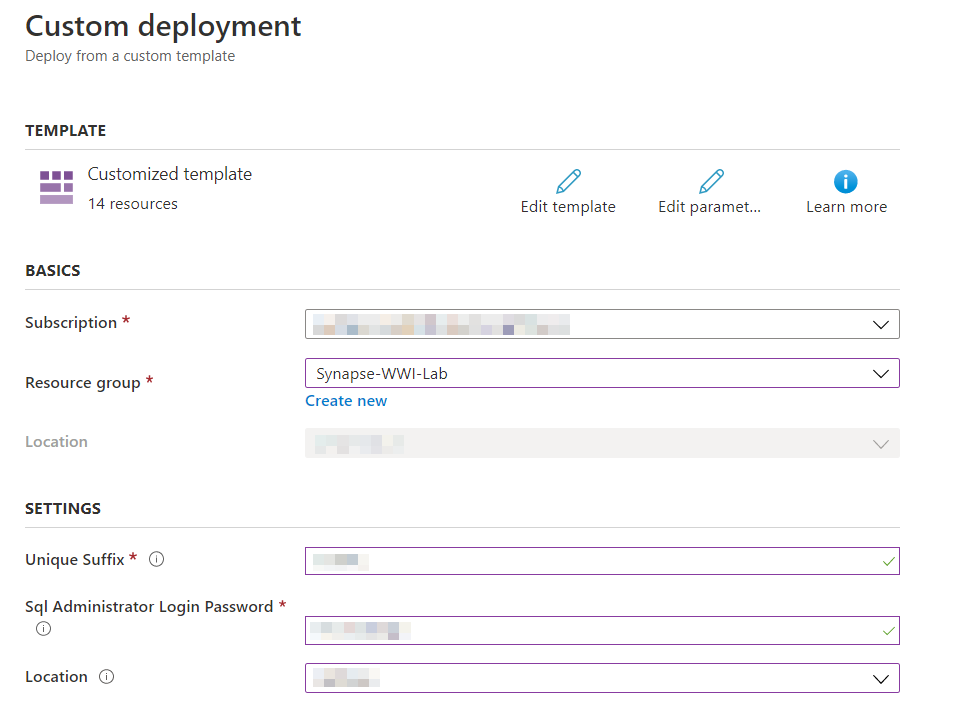
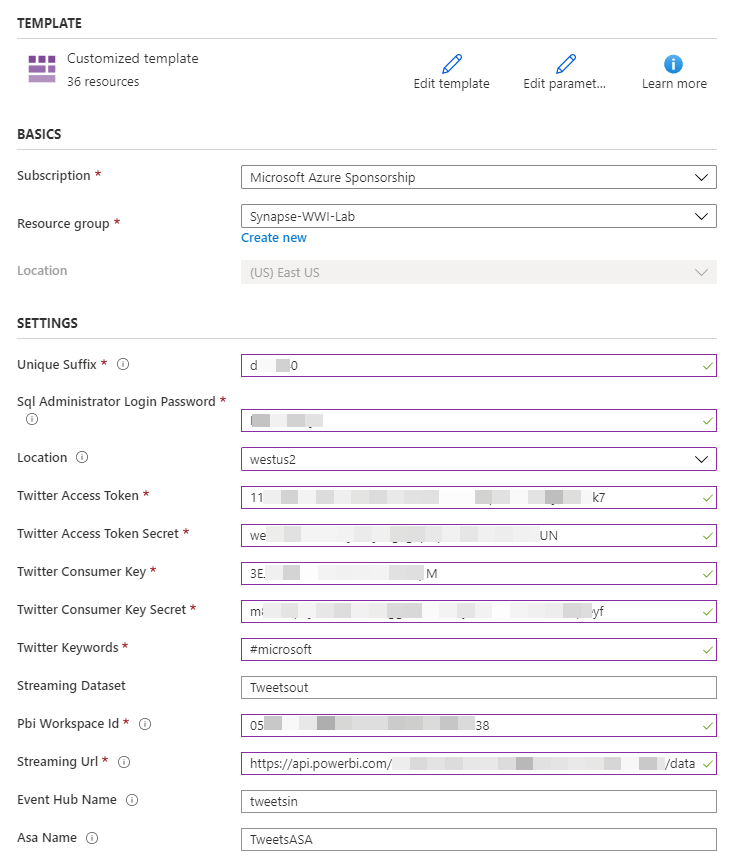
Setup Guide Additions for match the new ARM Template and automation changes.

diff --git a/CDP-Retail/Before-Starting.md b/CDP-Retail/Before-Starting.md
@@ -8,22 +8,71 @@
 - [Azure Synapse Analytics WWI setup guide](#azure-synapse-analytics-wwi-setup-guide)
   - [Requirements](#requirements)
   - [Before Starting](#before-starting)
-    - [Task 1: Create a resource group in Azure](#task-1-create-a-resource-group-in-azure)
-    - [Task 2: Create Azure Synapse Analytics workspace](#task-2-create-azure-synapse-analytics-workspace)
-    - [Task 3: Download artifacts](#task-3-download-artifacts)
-    - [Task 4: Establish a user context](#task-4-establish-a-user-context)
-    - [Task 5: Run environment setup PowerShell script](#task-5-run-environment-setup-powershell-script)
+    - [Task 1: Create a Power BI Streaming Dataset](#task-1-create-a-power-bi-streaming-dataset)
+    - [Task 2: Create a resource group in Azure](#task-2-create-a-resource-group-in-azure)
+    - [Task 3: Create Azure Synapse Analytics workspace](#task-3-create-azure-synapse-analytics-workspace)
+    - [Task 4: Download artifacts](#task-4-download-artifacts)
+    - [Task 5: Establish a user context](#task-5-establish-a-user-context)
+    - [Task 6: Run environment setup PowerShell script](#task-6-run-environment-setup-powershell-script)
 
 <!-- /TOC -->
 
 ## Requirements
 
 1. An Azure Account with the ability to create an Azure Synapse Workspace
-2. A PowerBI Pro or Premium account to host Power BI reports.
+2. Make sure the following resource providers are registered for your Azure Subscription.  
+* Microsoft.Sql
+* Microsoft.Synapse
+* Microsoft.StreamAnalytics
+* Microsoft.EventHub  
+3. A Power BI Pro or Premium account to host Power BI reports, dashboards, and configuration of streaming datasets.
+4. A Twitter developer account (Optional for Twitter Real-Time Power BI Report)
 
 ## Before starting
 
-### Task 1: Create a resource group in Azure
+### Task 1: Create a Power BI Streaming Dataset
+
+1. Sign in into the [Power BI Portal](https://powerbi.microsoft.com/en-us/) using your Azure credentials.
+
+2. Go to your workspace and select **Create** 
+
+ ![Create menu is open and the streaming dataset option is highlighted.](media/powerbi-create-streaming-dataset.png)
+
+3. Select **API** and select **Next** to continue. 
+
+ ![New streaming dataset options are listed. API option is selected and the Next button is highligted.](media/powerbi-streamingdataset-api.png)
+ 
+4. Enter a **dataset name** for your dataset and enter the field names and types listed below:
+
+| Field Name       | Type     |
+|------------------|----------|
+| Category         | Text     |
+| CustomerSegment  | Text     |
+| DeptID           | Number   |
+| DeptName         | Text     |
+| EntryTime        | DateTime |
+| ItemName         | Text     |
+| Price            | Number   |
+| Qty              | Number   |
+| Sentiment        | Text     |
+| StoreID          | Number   |
+| StoreName        | Text     |
+| TransactionID    | Number   |
+| VisitorId        | Number   |
+| VisitTime        | Number   |
+| VisitType        | Text     |
+
+ ![Streaming dataset schema configuration window is shown. Dataset name and sample configuration is highlighted.](media/powerbi-streamingdataset-schema.png)
+ 
+5. Make sure **Historic data analysis** is enabled. Select **Create** to proceed.
+
+ ![Dataset schema is shown. Historic data analysis option is enabled. The Create button is highlighted.](media/powerbi-streamingdataset-historic.png)
+ 
+6. Take note of the given **Push URL** to be used during the following setup tasks. Select **Done** to close the window.
+
+ ![Dataset creation message is shown. The Push URL is highligted.](media/powerbi-streamingdataset-endpoint.png)
+
+### Task 2: Create a resource group in Azure
 
 1. Log into the [Azure Portal](https://portal.azure.com) using your Azure credentials.
 
@@ -43,23 +92,39 @@
 
 6. Select the **Create** button once validation has passed.
 
-### Task 2: Create Azure Synapse Analytics workspace
+### Task 3: Create Azure Synapse Analytics workspace
 
 1. Deploy the workspace through the following Azure ARM template (press the button below):
 
     <a href="https://portal.azure.com/#create/Microsoft.Template/uri/https%3A%2F%2Fraw.githubusercontent.com%2Fmicrosoft%2FAzure-Analytics-and-AI-Engagement%2Fretail%2FCDP-Retail%2Fartifacts%2Fenvironment-setup%2Fautomation%2F00-asa-workspace-core.json" target="_blank"><img src="http://azuredeploy.net/deploybutton.png" /></a>
 
-2. On the **Custom deployment** form, select your desired subscription and select **Synapse-WWI-Lab** for the **Resource group**. Also provide a **Unique Suffix**. Finally, provide a strong **SQL Administrator Login Password**. Remember this password value, you'll be needing it!
+2. On the **Custom deployment** form fill in the fields described below.
 
-    ![The Custom deployment form is displayed with example data populated.](media/bhol_customdeploymentform.png)
+* **Subscription**: Select your desired subscription for the deployment.
+* **Resouce group**: Select the **Synapse-WWI-Lab** resource group you previously created.
+* **Unique Suffix**: This unique suffix will be used naming resources that will created as part of your deployment.
+* **SQL Administrator Login Password**: Provide a strong password for the SQLPool that will created as part of your deployment.
+* **Location**: The datacenter where your Azure Synapse environment will be created.
+* **Twitter Access Token**: The access token from Twitter.
+* **Twitter Access Token Secret**: The access token secret from Twitter.
+* **Twitter Consumer Key**: The consumer key from Twitter.
+* **Twitter Consumer Key Secret**: The consumer key secret from Twitter.
+* **Twitter Keywords**: Twitter keywords that will be used to fetch twitter real-time data as part of the Power BI Real-Time Report for Twitter.
+* **Streaming Dataset**: The name of your Twitter PowerBI Dataset that will be automatically created by Azure Stream Analytics. Feel free to leave the default value.
+* **Pbi Worksapce Id**: The Power BI workspace ID for your default workspace on the Power BI Portal. 
+* **Streaming Url**: The **Push Url** you received at the end of Task 1 in the Setup Guide.
+* **Event Hub Name**: The name of the event hub that will be used to dump tweets recevied from Twitter through an Azure Function. Feel free to leave the default value.
+* **Asa name**: The name of the Azure Stream Analytics Job that will be created to read data from Event Hubs and send to a Power BI streaming dataset.
+
+    ![The Custom deployment form is displayed with sample values filled in.](media/bhol_customdeploymentform.png)
   
     > **Important**: The `location` field under 'Settings' will list the Azure regions where Azure Synapse Analytics (Preview) is available as of June 2020. This will help you find a region where the service is available without being limited to where the resource group is defined.
 
-3. Check the **I agree to the terms and conditions stated above**, then select the **Purchase** button. The provisioning of your deployment resources will take approximately 10 minutes.
+3. Check the **I agree to the terms and conditions stated above**, then select the **Purchase** button. The provisioning of your deployment resources will take approximately 13 minutes.
 
     > **Note**: You may experience a deployment step failing in regards to Role Assignment. This error may safely be ignored.
 
-### Task 3: Download artifacts
+### Task 4: Download artifacts
 
 1. In the Azure Portal, open the Azure Cloud Shell by selecting its icon from the right side of the top toolbar.
 
@@ -77,7 +142,7 @@
 
 3. Keep the Cloud Shell open.
 
-### Task 4: Establish a user context
+### Task 5: Establish a user context
 
 1. In the Cloud Shell, execute the following command:
 
@@ -95,7 +160,7 @@
 
    ![The JSON result showing the subscription details.](media/shell-login-result.png)
 
-### Task 5: Run environment setup PowerShell script
+### Task 6: Run environment setup PowerShell script
 
 When executing the script below, it is important to let the scripts run to completion. Some tasks may take longer than others to run. When a script completes execution, you will be returned to a command prompt. The total runtime of all steps in this task will take approximately 15 minutes.
 
@@ -125,7 +190,12 @@ When executing the script below, it is important to let the scripts run to compl
 
     ![The Azure Cloud Shell window is displayed with a sample of the output from the preceding command.](media/bhol_sampleshelloutput.png)
 
-    You may be prompted to approve installations from PS-Gallery. Please approve to proceed with the automation.   
+    You will be asked to go through another round of device login for the Power BI workspace access. Repeat the steps in Task 4.2 and 4.3 to complete the process.
+    
+    Finally, you will be prompted for the default Power BI workspace Id for your account.
+    ![The default Power BI Workspace ID is requested on the console.](media/setup-powerbi-workspace-id.png)
+
+    During the execution of the automation script you may be prompted to approve installations from PS-Gallery. Please approve to proceed with the automation.   
 
     ![The Azure Cloud Shell window is displayed with a sample of the output from the preceding command.](media/untrusted-repo.png)
     
